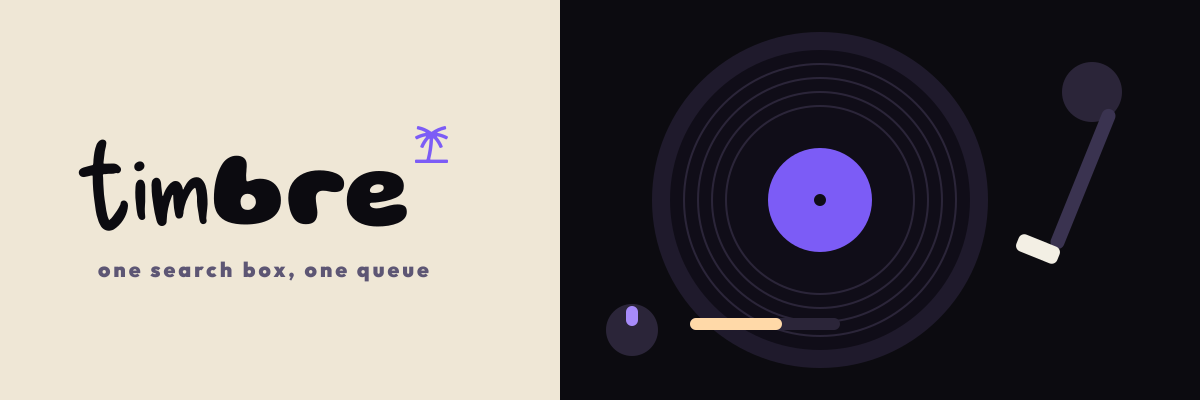
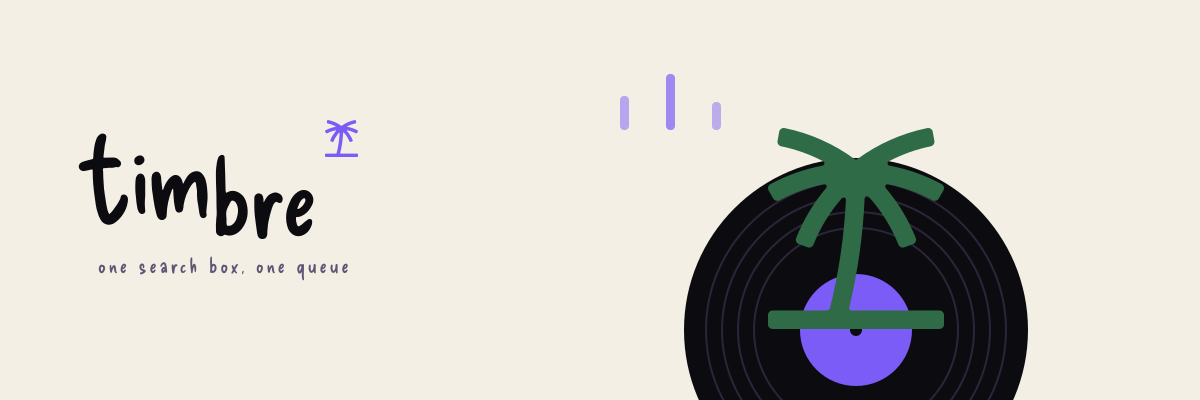
feat(meta): one mark for the README and the link card, and put the name back in it
The banner is now the palm growing out of the record - the mark and the medium as one object
rather than a logo set beside a picture of a turntable - and app/opengraph-image.tsx draws the
same thing at 1200x630, so a pasted link and the repo page show one brand instead of two.

The card also says which site it is again. Cut to "All your music, one search" the title read as
a slogan from nowhere: the name appeared only inside the artwork, which a reader skims past and
a screen reader never gets at all. It is "Timbre - all your music, one search" now, with
og:site_name set, which is the ordinary shape of a link preview.

The three fonts move from docs/assets/fonts into apps/web/app/brand-fonts, because the OG route
has to read them at request time on Vercel and only what Next can trace from the route reaches
the serverless bundle. Both callers use new URL(..., import.meta.url) for that tracing, and
readFileSync rather than fetch: this route runs on the Node runtime, where fetch of a file: URL
answers "not implemented... yet". A path off process.cwd() would have built here and 500'd in
production, which is the failure this arrangement exists to avoid.

Nothing here reaches the browser bundle - layout.tsx still serves Geist to visitors, and these
faces are only ever rasterised into a PNG on the server.

diff --git a/docs/assets/readme-banner.tsx b/docs/assets/readme-banner.tsx
@@ -1,29 +1,35 @@
 // Source for docs/assets/readme-banner.png. Not routed, not built, not imported by the app —
-// it lives here so the banner is an edit rather than a redesign next time. The previous banner
+// it lives here so the banner is an edit rather than a redesign next time. The banner before it
 // was a PNG with no source, which is why replacing it took a day.
 //
 // To redraw it:
 //   1. cp docs/assets/readme-banner.tsx apps/web/app/banner-preview/route.tsx
 //   2. cd apps/web && TIMBRE_DIST_DIR=.next-banner npx next dev -p 3249
 //   3. curl -o ../../docs/assets/readme-banner.png http://localhost:3249/banner-preview
-//   4. rm -r apps/web/app/banner-preview apps/web/.next-banner
-//      and `git checkout -- apps/web/tsconfig.json` — next dev rewrites it
+//   4. rm -r apps/web/app/banner-preview apps/web/.next-banner apps/web/.next/dev/types
+//      then `npx next typegen` and `git checkout -- apps/web/tsconfig.json`
 //
-// Step 4 matters: left in place this is a public endpoint on the deployment.
+// Step 4 is not tidying. Left in place this is a public endpoint on the deployment, and the
+// stale route validator Next leaves in .next/dev/types fails typecheck until it is regenerated.
 //
-// It has to run inside Next because `next/og` is Satori plus resvg wired together by Next and
-// does not resolve standalone. Two of its limits are load-bearing here, both found the hard way:
-// a component or fragment returning <svg> children renders as nothing, and `url(#id)` gradient
-// references do not resolve. So every shape is inline and every fill is a flat colour.
+// The font paths below are relative to step 1's destination, not to this file — it only ever runs
+// from there. It has to run inside Next at all because `next/og` is Satori plus resvg wired
+// together by Next and does not resolve standalone. Two Satori limits are load-bearing here, both
+// found the hard way: a component or fragment returning <svg> children renders as nothing, and
+// `url(#id)` gradient references do not resolve. So every shape is inline and every fill is flat.
+//
+// app/opengraph-image.tsx draws the same lockup at 1200x630 for link previews. If the wordmark
+// changes here, change it there too.
 
 import { readFileSync } from "node:fs";
-import path from "node:path";
+import { fileURLToPath } from "node:url";
 
 import { ImageResponse } from "next/og";
 
-// Resolved from apps/web, which is where `next dev` runs.
-const FONTS = path.join(process.cwd(), "../../docs/assets/fonts");
-const load = (file: string) => readFileSync(path.join(FONTS, file));
+// Read rather than fetched: this runs on the Node runtime, where `fetch` of a file: URL is
+// "not implemented... yet". The URL form is still what Next traces for bundling.
+const font = (file: string) =>
+  readFileSync(fileURLToPath(new URL(`../brand-fonts/${file}`, import.meta.url)));
 
 // The palm, inlined rather than imported from app/shell/brand so this file resolves wherever it
 // sits. If the mark changes there, copy the path across.
@@ -44,8 +50,7 @@ const H = 400;
 const INK = "#0c0b10";
 const CREAM = "#f3efe4";
 const VIOLET = "#7c5cf6";
-const LILAC = "#a78bfa";
-const SUN = "#ffd9a8";
+const PALM = "#2f6b46";
 
 // "tim" is Delicious Handrawn, "bre" is Gluten at 0.94x. Both numbers are measured off the
 // rendered pixels rather than judged: Delicious sits high on its line, so without the drop the
@@ -84,34 +89,34 @@ function Lockup({ size, color, mark }: { size: number; color: string; mark: stri
   );
 }
 
-// A deck seen from above, the cream side carrying the name and the black side the record.
+// The palm growing straight out of the record: the mark and the medium as one object, rather
+// than a logo placed next to a picture of a turntable.
 export function GET() {
-  const grooves = [136, 122, 108, 94];
+  const head = font("DeliciousHandrawn.woff");
+  const gluten = font("Gluten.woff");
+  const outfit = font("Outfit.woff");
+
+  const grooves = [150, 134, 118, 102];
 
   return new ImageResponse(
     (
-      <div style={{ display: "flex", width: W, height: H, background: "#efe7d6", position: "relative", overflow: "hidden" }}>
+      <div style={{ display: "flex", width: W, height: H, background: CREAM, position: "relative", overflow: "hidden" }}>
         <svg width={W} height={H} viewBox="0 0 1200 400" style={{ position: "absolute", left: 0, top: 0 }}>
-          <rect x="560" y="-30" width="640" height="460" rx="24" fill={INK} />
-          <circle cx="820" cy="200" r="168" fill="#1f1a2c" />
-          <circle cx="820" cy="200" r="150" fill="#100d18" />
+          <circle cx="856" cy="330" r="172" fill={INK} />
           {grooves.map((r) => (
-            <circle key={r} cx="820" cy="200" r={r} fill="none" stroke="#2b2539" strokeWidth="2" />
+            <circle key={r} cx="856" cy="330" r={r} fill="none" stroke="#2b2539" strokeWidth="2" />
           ))}
-          <circle cx="820" cy="200" r="52" fill={VIOLET} />
-          <circle cx="820" cy="200" r="6" fill="#100d18" />
-          <circle cx="1092" cy="92" r="30" fill="#2b2539" />
-          <rect x="1076" y="104" width="14" height="150" rx="7" fill="#3a3350" transform="rotate(22 1083 179)" />
-          <rect x="1016" y="240" width="44" height="18" rx="6" fill={CREAM} transform="rotate(22 1038 249)" />
-          <circle cx="632" cy="330" r="26" fill="#2b2539" />
-          <rect x="626" y="306" width="12" height="20" rx="6" fill={LILAC} />
-          <rect x="690" y="318" width="150" height="12" rx="6" fill="#2b2539" />
-          <rect x="690" y="318" width="92" height="12" rx="6" fill={SUN} />
+          <circle cx="856" cy="330" r="56" fill={VIOLET} />
+          <circle cx="856" cy="330" r="6" fill={INK} />
+          <rect x="620" y="96" width="9" height="34" rx="4" fill={VIOLET} opacity="0.5" />
+          <rect x="666" y="74" width="9" height="56" rx="4" fill={VIOLET} opacity="0.7" />
+          <rect x="712" y="102" width="9" height="28" rx="4" fill={VIOLET} opacity="0.45" />
         </svg>
-        <div style={{ display: "flex", position: "absolute", left: 96, top: 126 }}>
+        <TimbreMark width={176} height={201} style={{ color: PALM, position: "absolute", left: 768, top: 128 }} />
+        <div style={{ display: "flex", position: "absolute", left: 96, top: 120 }}>
           <Lockup size={110} color={INK} mark={VIOLET} />
         </div>
-        <span style={{ fontFamily: "Outfit", fontSize: 21, letterSpacing: 3, color: "#5d5674", position: "absolute", left: 98, top: 256 }}>
+        <span style={{ fontFamily: "Outfit", fontSize: 21, letterSpacing: 3, color: "#5d5674", position: "absolute", left: 98, top: 252 }}>
           one search box, one queue
         </span>
       </div>
@@ -120,9 +125,9 @@ export function GET() {
       width: W,
       height: H,
       fonts: [
-        { name: "Head", data: load("DeliciousHandrawn.woff"), weight: 400, style: "normal" },
-        { name: "Gluten", data: load("Gluten.woff"), weight: 400, style: "normal" },
-        { name: "Outfit", data: load("Outfit.woff"), weight: 400, style: "normal" },
+        { name: "Head", data: head, weight: 400, style: "normal" },
+        { name: "Gluten", data: gluten, weight: 400, style: "normal" },
+        { name: "Outfit", data: outfit, weight: 400, style: "normal" },
       ],
     },
   );

diff --git a/apps/web/app/opengraph-image.tsx b/apps/web/app/opengraph-image.tsx
@@ -1,35 +1,116 @@
+import { readFileSync } from "node:fs";
+import { fileURLToPath } from "node:url";
+
 import { ImageResponse } from "next/og";
+
 import { TimbreMark } from "./shell/brand";
 
-export const alt = "Timbre";
+export const alt = "Timbre — all your music, one search";
 export const size = { width: 1200, height: 630 };
 export const contentType = "image/png";
 
+const INK = "#0c0b10";
+const CREAM = "#f3efe4";
+const VIOLET = "#7c5cf6";
+const PALM = "#2f6b46";
+
+// The same lockup the README banner uses. "tim" is Delicious Handrawn, "bre" is Gluten at 0.94x,
+// dropped 0.209 of the head size so the feet sit level — measured off rendered pixels, because
+// Delicious sits high on its line and without the drop the "bre" hangs above the foot of the "m".
+const BRE_SCALE = 0.94;
+const BRE_DROP = 0.209;
+
+// `new URL(..., import.meta.url)` rather than a path off process.cwd(): only what Next can trace
+// from this route is copied into the serverless bundle, and a cwd read builds fine locally then
+// 500s in production. It is read rather than fetched because this route runs on the Node runtime,
+// where `fetch` of a file: URL is "not implemented... yet".
+const font = (file: string) =>
+  readFileSync(fileURLToPath(new URL(`./brand-fonts/${file}`, import.meta.url)));
+
 export default function OpenGraphImage() {
+  const head = font("DeliciousHandrawn.woff");
+  const gluten = font("Gluten.woff");
+  const outfit = font("Outfit.woff");
+
+  const size1 = 148;
+  const grooves = [232, 208, 184, 160];
+
   return new ImageResponse(
     (
       <div
         style={{
-          display: "flex", width: "100%", height: "100%", position: "relative",
-          overflow: "hidden", background: "linear-gradient(120deg, #101017 25%, #292044 100%)",
-          color: "#f6f3ff", fontFamily: "sans-serif", alignItems: "center", padding: 96,
+          display: "flex",
+          width: "100%",
+          height: "100%",
+          position: "relative",
+          overflow: "hidden",
+          background: CREAM,
         }}
       >
-        <div style={{ display: "flex", position: "absolute", right: -150, top: 45,
-          width: 540, height: 540, borderRadius: "50%", background: "#121019",
-          border: "2px solid #51416e", alignItems: "center", justifyContent: "center" }}>
-          {[460, 390, 320, 250].map((diameter) => (
-            <div key={diameter} style={{ display: "flex", position: "absolute",
-              width: diameter, height: diameter, borderRadius: "50%", border: "2px solid #30283e" }} />
+        <svg width={1200} height={630} viewBox="0 0 1200 630" style={{ position: "absolute", left: 0, top: 0 }}>
+          <circle cx="836" cy="452" r="262" fill={INK} />
+          {grooves.map((r) => (
+            <circle key={r} cx="836" cy="452" r={r} fill="none" stroke="#2b2539" strokeWidth="3" />
           ))}
-          <div style={{ display: "flex", width: 96, height: 96, borderRadius: "50%", background: "#a78bfa" }} />
+          <circle cx="836" cy="452" r="86" fill={VIOLET} />
+          <circle cx="836" cy="452" r="9" fill={INK} />
+          <rect x="556" y="112" width="13" height="50" rx="6" fill={VIOLET} opacity="0.5" />
+          <rect x="620" y="82" width="13" height="80" rx="6" fill={VIOLET} opacity="0.7" />
+          <rect x="684" y="120" width="13" height="42" rx="6" fill={VIOLET} opacity="0.45" />
+        </svg>
+
+        <TimbreMark
+          width={268}
+          height={306}
+          style={{ color: PALM, position: "absolute", left: 702, top: 158 }}
+        />
+
+        <div style={{ display: "flex", alignItems: "flex-start", position: "absolute", left: 96, top: 214 }}>
+          <span style={{ fontFamily: "Head", fontSize: size1, letterSpacing: size1 * -0.02, color: INK, lineHeight: 1 }}>
+            tim
+          </span>
+          <span
+            style={{
+              fontFamily: "Gluten",
+              fontSize: size1 * BRE_SCALE,
+              letterSpacing: -size1 * 0.012,
+              color: INK,
+              lineHeight: 1,
+              marginLeft: size1 * 0.02,
+              marginTop: size1 * BRE_DROP,
+            }}
+          >
+            bre
+          </span>
+          <TimbreMark
+            width={size1 * 0.3}
+            height={size1 * 0.34}
+            style={{ color: VIOLET, marginLeft: size1 * 0.05, alignSelf: "flex-start" }}
+          />
         </div>
-        <div style={{ display: "flex", alignItems: "center", gap: 32, position: "relative" }}>
-          <TimbreMark width={98} height={112} style={{ color: "#a78bfa" }} />
-          <span style={{ fontSize: 124, fontWeight: 700, letterSpacing: -6 }}>Timbre</span>
-        </div>
+
+        <span
+          style={{
+            fontFamily: "Outfit",
+            fontSize: 30,
+            letterSpacing: 3,
+            color: "#5d5674",
+            position: "absolute",
+            left: 98,
+            top: 400,
+          }}
+        >
+          one search box, one queue
+        </span>
       </div>
     ),
-    size,
+    {
+      ...size,
+      fonts: [
+        { name: "Head", data: head, weight: 400, style: "normal" },
+        { name: "Gluten", data: gluten, weight: 400, style: "normal" },
+        { name: "Outfit", data: outfit, weight: 400, style: "normal" },
+      ],
+    },
   );
 }

diff --git a/apps/web/app/layout.tsx b/apps/web/app/layout.tsx
@@ -10,7 +10,16 @@ const geistSans = Geist({ variable: "--font-geist-sans", subsets: ["latin"] });
 const geistMono = Geist_Mono({ variable: "--font-geist-mono", subsets: ["latin"] });
 
 const DESCRIPTION = "Search YouTube Music, SoundCloud and more from one place.";
-const SHARED = { title: "All your music, one search", description: DESCRIPTION };
+
+// The card a pasted link unfurls into needs to say which site it is. Cut to "All your music, one
+// search" the title read as a slogan from nowhere — the name only appeared in the artwork, which
+// a reader skims past and a screen reader never sees. Convention for a link preview is name first,
+// then what it does, which is what this is.
+const SHARED = {
+  title: "Timbre — all your music, one search",
+  description: DESCRIPTION,
+  siteName: "Timbre",
+};
 
 export const metadata: Metadata = {
   title: "Timbre",

diff --git a/apps/web/app/brand-fonts/README.md b/apps/web/app/brand-fonts/README.md
@@ -1,0 +1,25 @@
+# Banner fonts
+
+Three faces used by the two places the brand is drawn rather than typed:
+`app/opengraph-image.tsx` (the card a link to the site unfurls into) and
+`docs/assets/readme-banner.tsx` (the README banner).
+
+| File | Face | Used for |
+|---|---|---|
+| `DeliciousHandrawn.woff` | Delicious Handrawn | the `tim` |
+| `Gluten.woff` | Gluten | the `bre` |
+| `Outfit.woff` | Outfit | the strapline |
+
+All three are [SIL Open Font Licence 1.1](https://openfontlicense.org), which permits bundling and
+redistribution, including in a repository.
+
+They sit inside `app/` rather than in `docs/` because `opengraph-image.tsx` has to read them at
+request time on Vercel, and only files Next can trace from the route make it into the serverless
+bundle. Both callers load them with `new URL("./brand-fonts/…", import.meta.url)`, which is the
+form Next traces — `readFileSync` off `process.cwd()` builds fine locally and 500s in production.
+
+Nothing here reaches the browser bundle. `layout.tsx` still serves Geist for everything a visitor
+sees; these are only ever rasterised into a PNG on the server.
+
+The wordmark is deliberately two faces. The pairing, and the measured offsets that keep the `bre`
+from floating above the `tim`, are explained in the comments in `docs/assets/readme-banner.tsx`.
